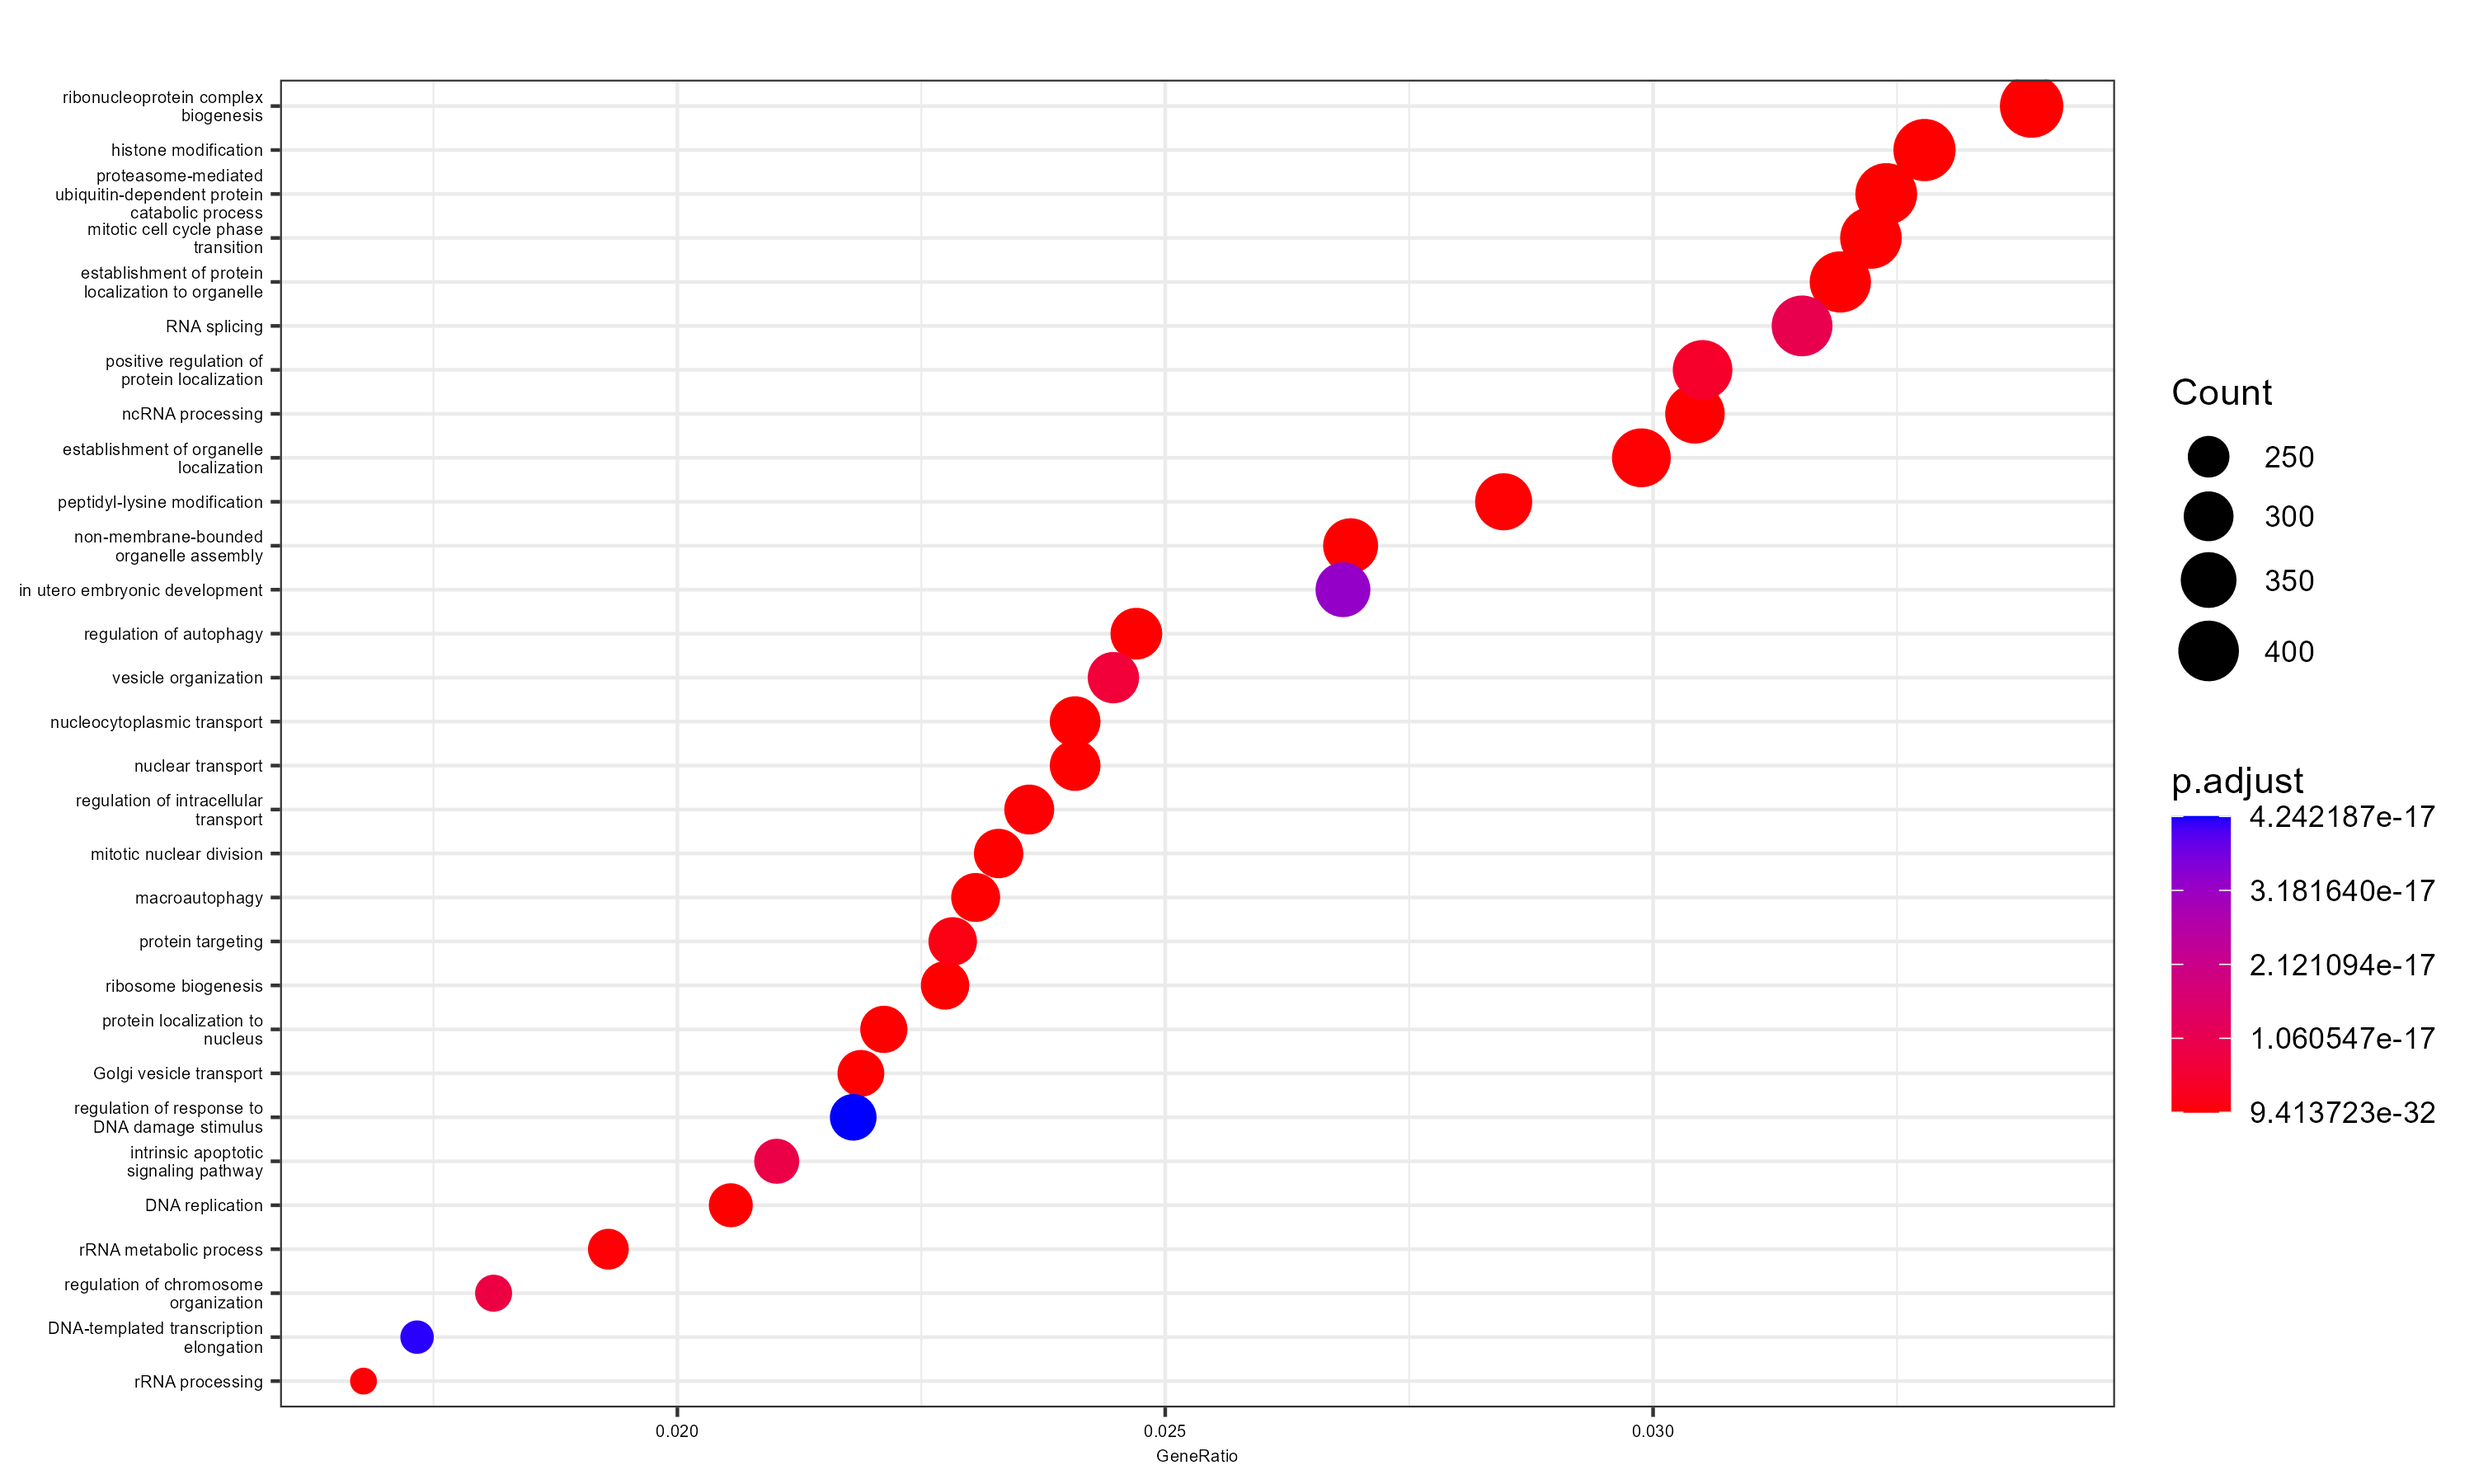
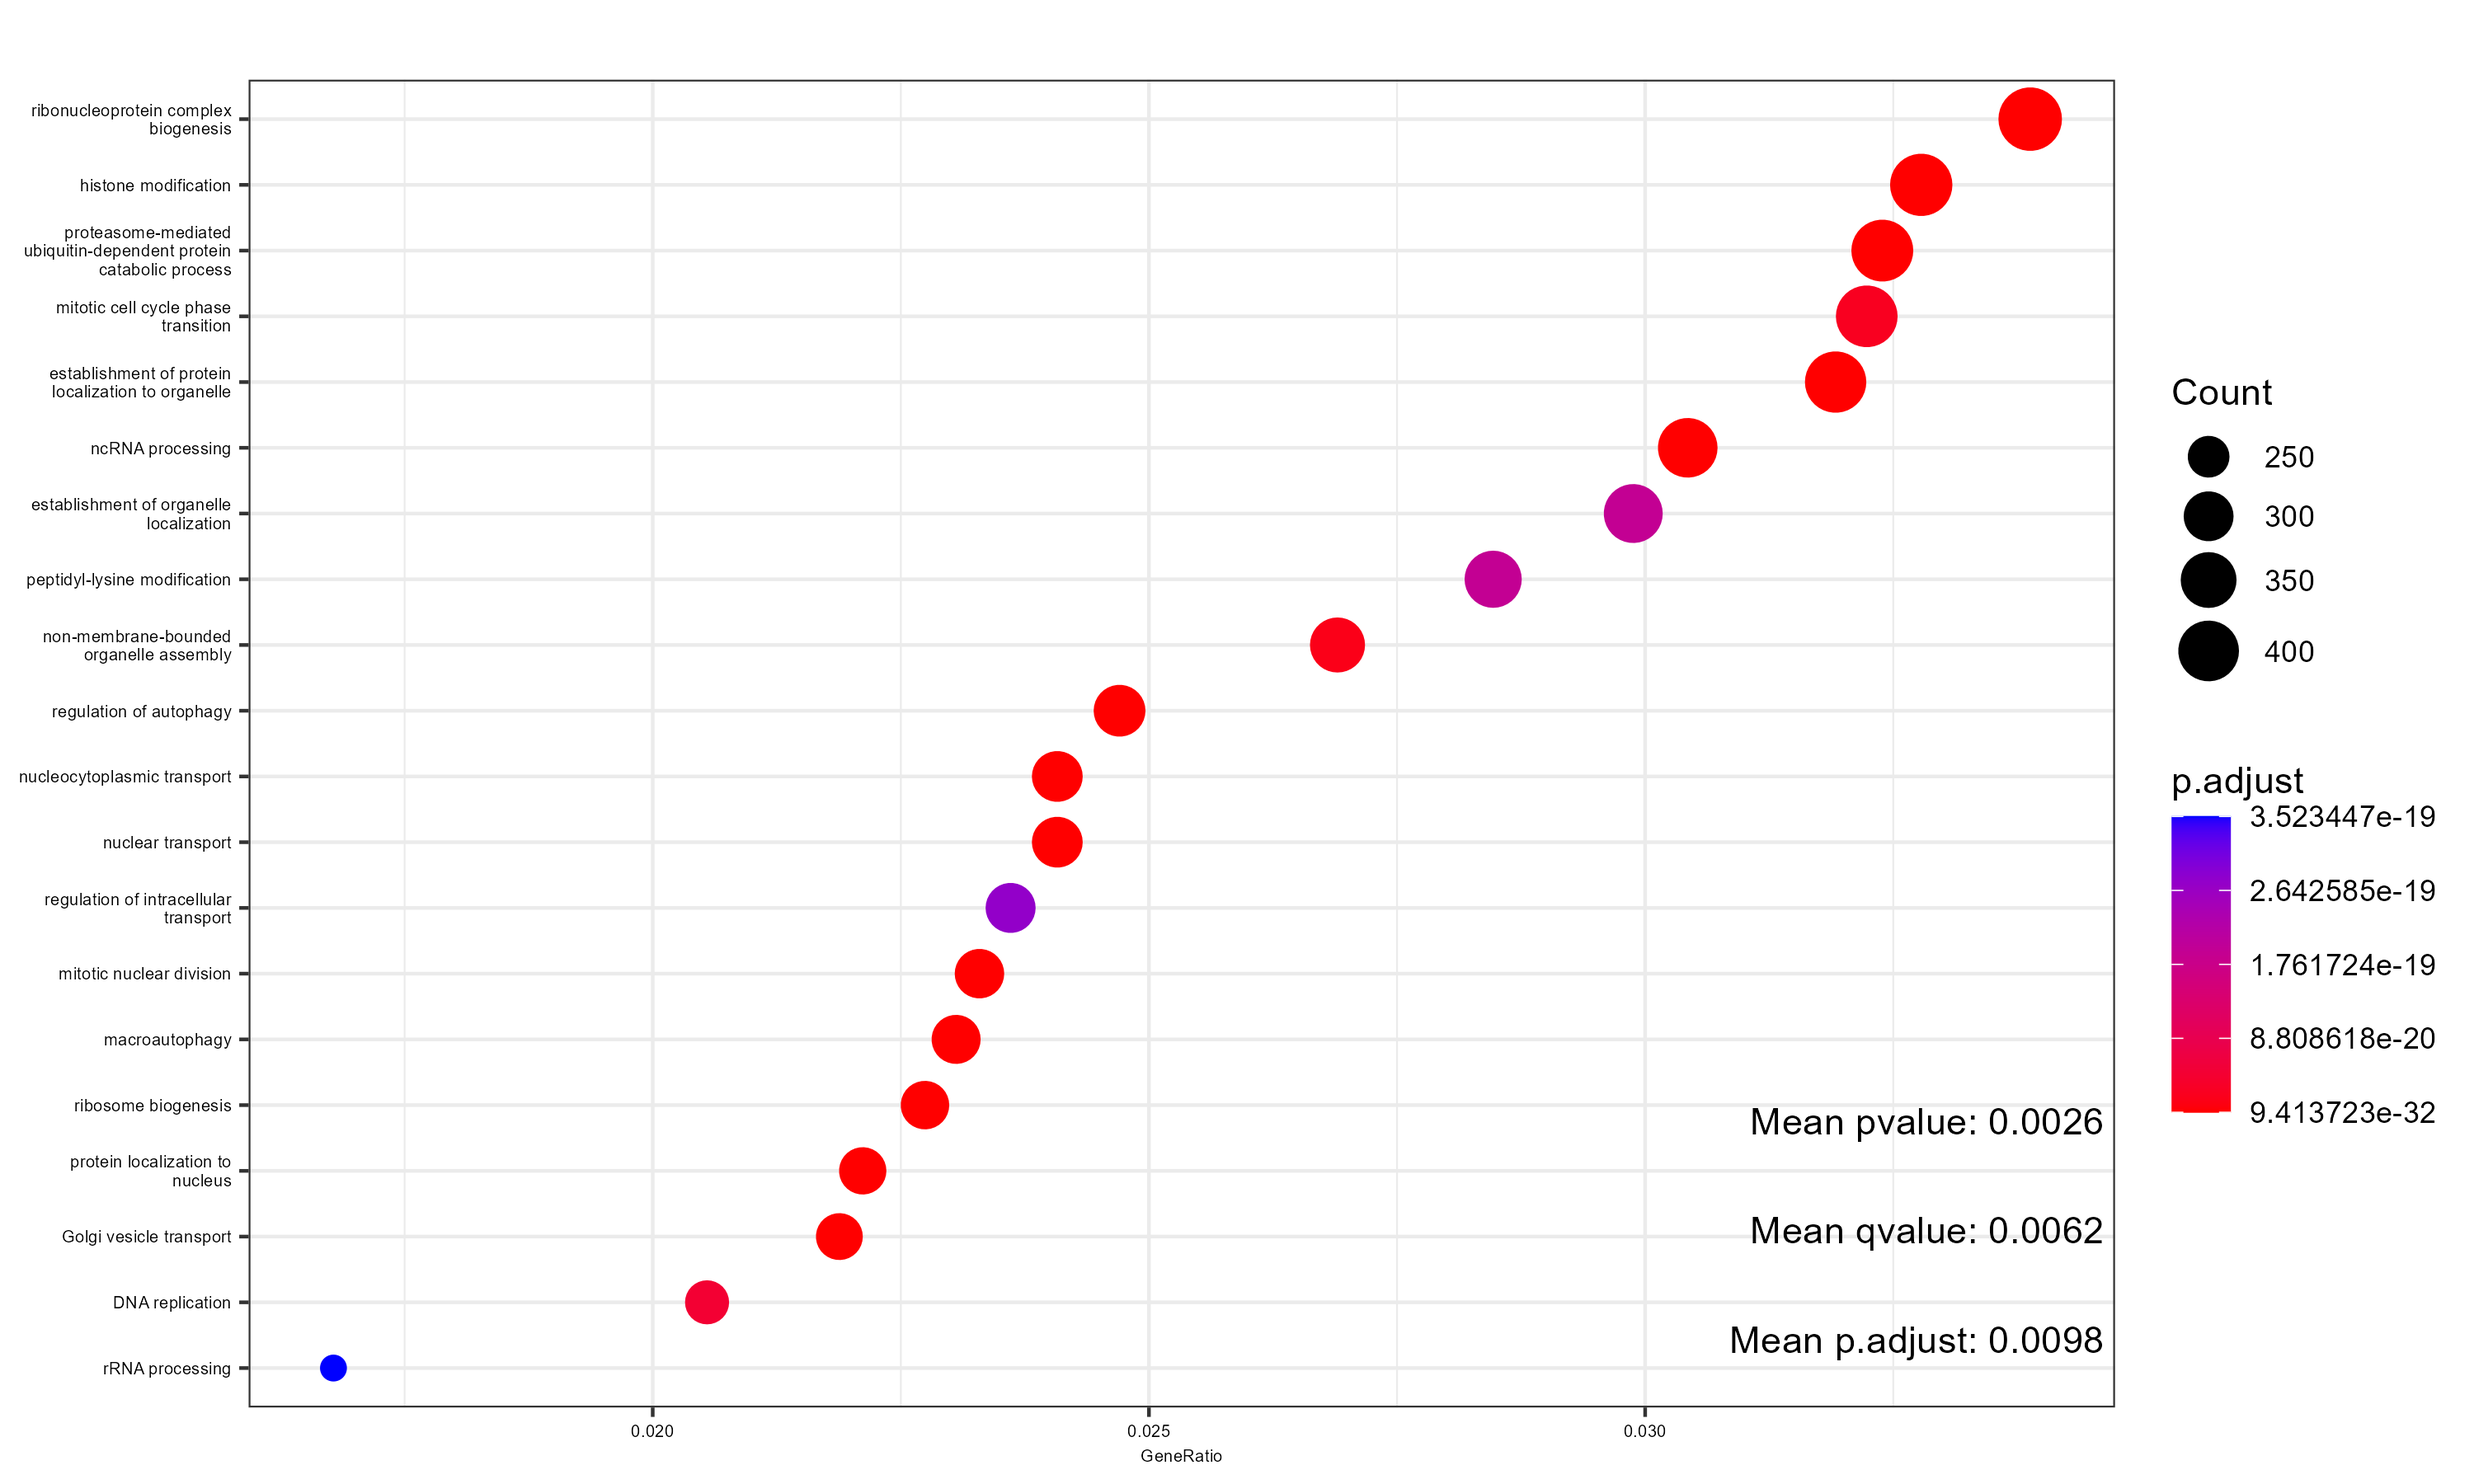
Third commit

diff --git a/GEN database/GEN-data-analysis.html b/GEN database/GEN-data-analysis.html
@@ -9,9 +9,9 @@
 <meta http-equiv="X-UA-Compatible" content="IE=EDGE" />
 
 
-<meta name="author" content="1931391" />
+<meta name="author" content="TC-tea" />
 
-<meta name="date" content="2024-04-20" />
+<meta name="date" content="2024-05-03" />
 
 <title>Final year project</title>
 
@@ -352,8 +352,8 @@ display: none;
 
 <h1 class="title toc-ignore"><strong>Final year project</strong></h1>
 <h3 class="subtitle"><em>GEN data analysis</em></h3>
-<h4 class="author">1931391</h4>
-<h4 class="date">2024-04-20</h4>
+<h4 class="author">TC-tea</h4>
+<h4 class="date">2024-05-03</h4>
 
 </div>
 
@@ -366,7 +366,7 @@ display: none;
 <li><a href="#define-group-batch-variable" id="toc-define-group-batch-variable"><span style="color:grey">1.3</span>
 Define group &amp; batch variable</a></li>
 <li><a href="#save-the-combined-dataset-as-rdata" id="toc-save-the-combined-dataset-as-rdata"><span style="color:grey">1.4</span> Save the combined dataset as
-<code>Rdata</code></a></li>
+Rdata</a></li>
 </ul></li>
 <li><a href="#adjust-for-batch-effects" id="toc-adjust-for-batch-effects"><span style="color:grey">2</span>
 Adjust for batch effects</a>
@@ -427,7 +427,7 @@ batch &lt;- c(rep(&quot;GSE147507&quot;, 6), rep(&quot;GSE150962&quot;, 6))</cod
 </div>
 <div id="save-the-combined-dataset-as-rdata" class="section level2">
 <h2><span style="color:grey">1.4</span> Save the combined dataset as
-<code>Rdata</code></h2>
+Rdata</h2>
 <pre class="r"><code>save(rawdata_combined, group, batch, file = &quot;GEN.Rdata&quot;)</code></pre>
 </div>
 </div>
@@ -745,8 +745,17 @@ generate_heatmap(df_RUVs, df_RUVs_raw, group, batch)</code></pre>
                   pAdjustMethod = &quot;BH&quot;,
                   qvalueCutoff = 0.05,
                   readable = TRUE)
-  plot &lt;- dotplot(ego, showCategory = 30, font.size = 5)
+  plot &lt;- dotplot(ego, showCategory = 20, font.size = 5)
   plot &lt;- plot + theme(axis.text.y = element_text(hjust = 1))
+
+  # Add average significance information
+  mean_pvalue &lt;- mean(ego$pvalue)
+  mean_qvalue &lt;- mean(ego$qvalue)
+  mean_apvalue &lt;- mean(ego$p.adjust)
+  summary_text &lt;- paste(&quot;Mean pvalue:&quot;, round(mean_pvalue, 4),&quot;
+                        \nMean qvalue:&quot;, round(mean_qvalue, 4),&quot;
+                        \nMean p.adjust:&quot;, round(mean_apvalue, 4), &quot;\n&quot;)
+  plot &lt;- plot + annotate(&quot;text&quot;, x = Inf, y = -Inf, label = summary_text, hjust = 1, vjust = 0)
   ggsave(paste0(&quot;GEN_GO_bubble_plot(&quot;, data_name, &quot;).png&quot;), plot = plot, width = 10, height = 6, units = &quot;in&quot;)
 }
 perform_GO_enrichment_analysis(df_raw_raw)

diff --git a/GEO database/GEO-data-analysis.html b/GEO database/GEO-data-analysis.html
@@ -9,9 +9,9 @@
 <meta http-equiv="X-UA-Compatible" content="IE=EDGE" />
 
 
-<meta name="author" content="1931391" />
+<meta name="author" content="TC-tea" />
 
-<meta name="date" content="2024-04-20" />
+<meta name="date" content="2024-05-03" />
 
 <title>Final year project</title>
 
@@ -352,8 +352,8 @@ display: none;
 
 <h1 class="title toc-ignore"><strong>Final year project</strong></h1>
 <h3 class="subtitle"><em>GEO data analysis</em></h3>
-<h4 class="author">1931391</h4>
-<h4 class="date">2024-04-20</h4>
+<h4 class="author">TC-tea</h4>
+<h4 class="date">2024-05-03</h4>
 
 </div>
 
@@ -366,7 +366,7 @@ display: none;
 <li><a href="#define-group-batch-variable" id="toc-define-group-batch-variable"><span style="color:grey">1.3</span>
 Define group &amp; batch variable</a></li>
 <li><a href="#save-the-combined-dataset-as-rdata" id="toc-save-the-combined-dataset-as-rdata"><span style="color:grey">1.4</span> Save the combined dataset as
-<code>Rdata</code></a></li>
+Rdata</a></li>
 </ul></li>
 <li><a href="#adjust-for-batch-effects" id="toc-adjust-for-batch-effects"><span style="color:grey">2</span>
 Adjust for batch effects</a>
@@ -426,7 +426,7 @@ batch &lt;- c(rep(&quot;GSE147507&quot;, 6), rep(&quot;GSE150962&quot;, 6))</cod
 </div>
 <div id="save-the-combined-dataset-as-rdata" class="section level2">
 <h2><span style="color:grey">1.4</span> Save the combined dataset as
-<code>Rdata</code></h2>
+Rdata</h2>
 <pre class="r"><code>save(rawdata_combined, group, batch, file = &quot;GEO.Rdata&quot;)</code></pre>
 </div>
 </div>
@@ -755,8 +755,16 @@ generate_heatmap(df_RUVs, df_RUVs_raw, group, batch)</code></pre>
                   pAdjustMethod = &quot;BH&quot;,
                   qvalueCutoff = 0.05,
                   readable = TRUE)
-  plot &lt;- dotplot(ego, showCategory=30, font.size = 5)
+  plot &lt;- dotplot(ego, showCategory = 20, font.size = 5)
   plot &lt;- plot + theme(axis.text.y = element_text(hjust = 1))
+  # Add average significance information
+  mean_pvalue &lt;- mean(ego$pvalue)
+  mean_qvalue &lt;- mean(ego$qvalue)
+  mean_apvalue &lt;- mean(ego$p.adjust)
+  summary_text &lt;- paste(&quot;Mean pvalue:&quot;, round(mean_pvalue, 4),&quot;
+                        \nMean qvalue:&quot;, round(mean_qvalue, 4),&quot;
+                        \nMean p.adjust:&quot;, round(mean_apvalue, 4), &quot;\n&quot;)
+  plot &lt;- plot + annotate(&quot;text&quot;, x = Inf, y = -Inf, label = summary_text, hjust = 1, vjust = 0)
   ggsave(paste0(&quot;GEO_GO_bubble_plot(&quot;, data_name, &quot;).png&quot;), plot = plot, width = 10, height = 6, units = &quot;in&quot;)
 }
 perform_GO_enrichment_analysis(df_raw_raw)
